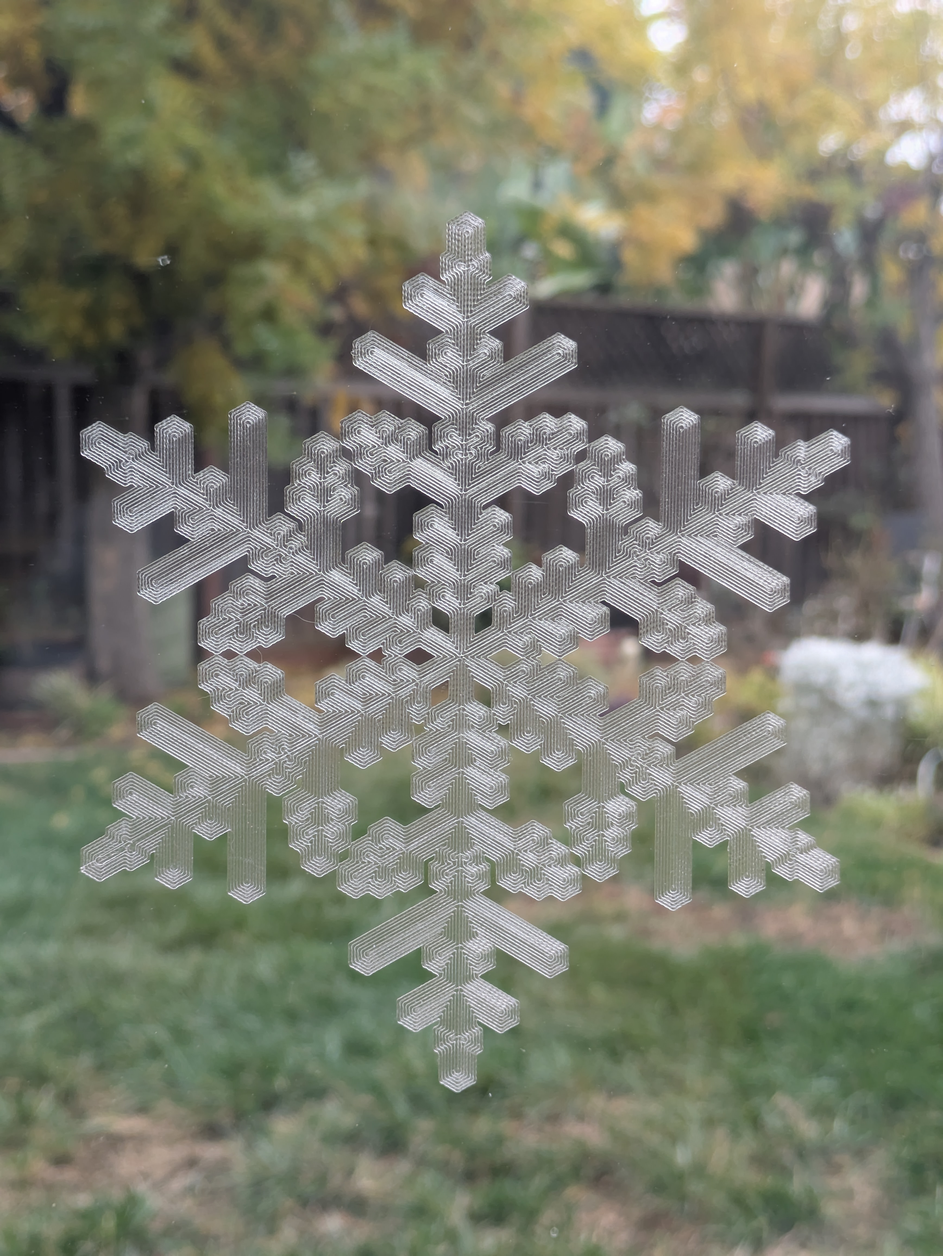
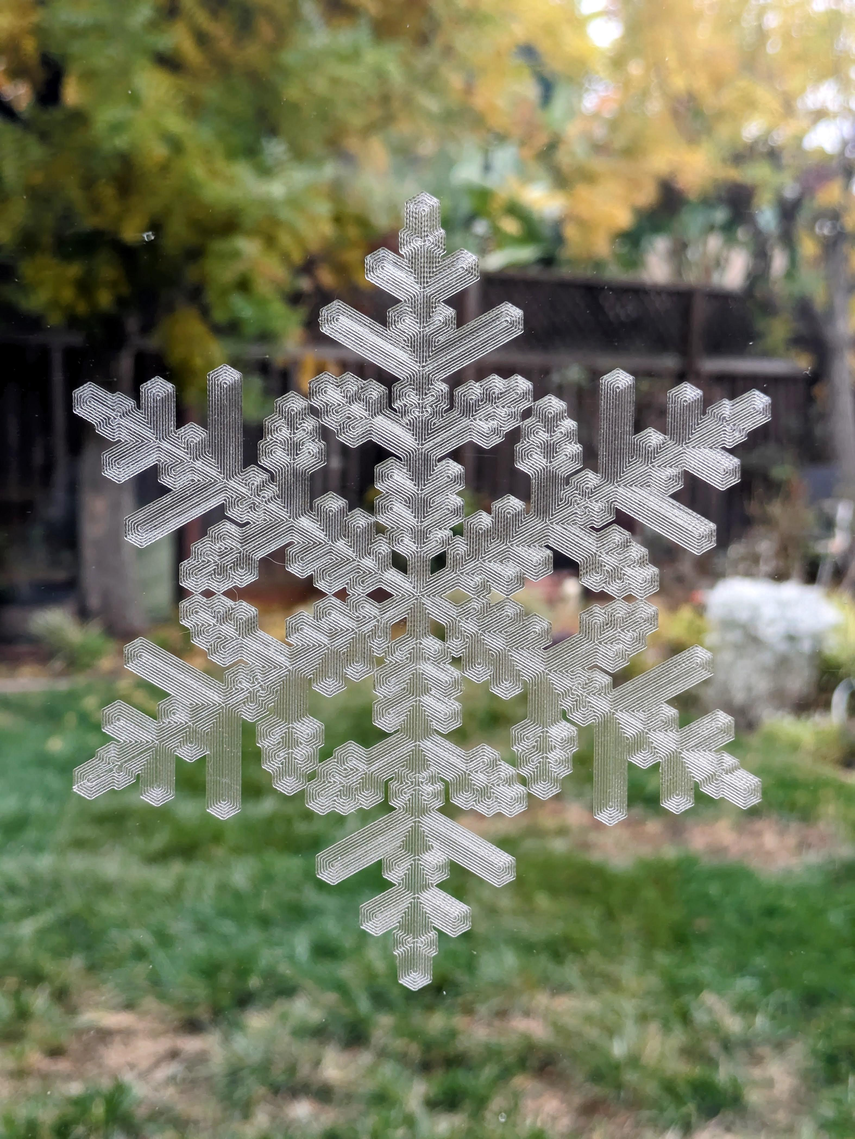
snowflake a day

diff --git a/README.md b/README.md
@@ -15,10 +15,16 @@ npx neghero -j "{tree:[7,[4,[5,[7,[5,[2,[5,[6,[6,[7,5,1],7],3],15],2],1],[9,[4,4
 ![](./assets/neghero-0005.jpg)
 
 ```js
-npx neghero -j "{tree:[7,[5,[11,[11,[10,[9,[7,2,1],5],[5,4,1]],[6,[5,5,1],1]],[7,[7,4,2],3]],8],4],l:9,p:2.8}" -o neghero-0006.gcode
+npx neghero -j "{tree:[7,[5,[11,[12,[4,[6,[9,4,4],10],15],13],16],5],3],l:15,p:2.8}" -o neghero-0006.gcode
 ```
 
 ![](./assets/neghero-0006.jpg)
+
+```js
+npx neghero -j "{tree:[7,[5,[11,[11,[10,[9,[7,2,1],5],[5,4,1]],[6,[5,5,1],1]],[7,[7,4,2],3]],8],4],l:9,p:2.8}" -o neghero-0007.gcode
+```
+
+![](./assets/neghero-0007.jpg)
 
 
 ## CLI usage
